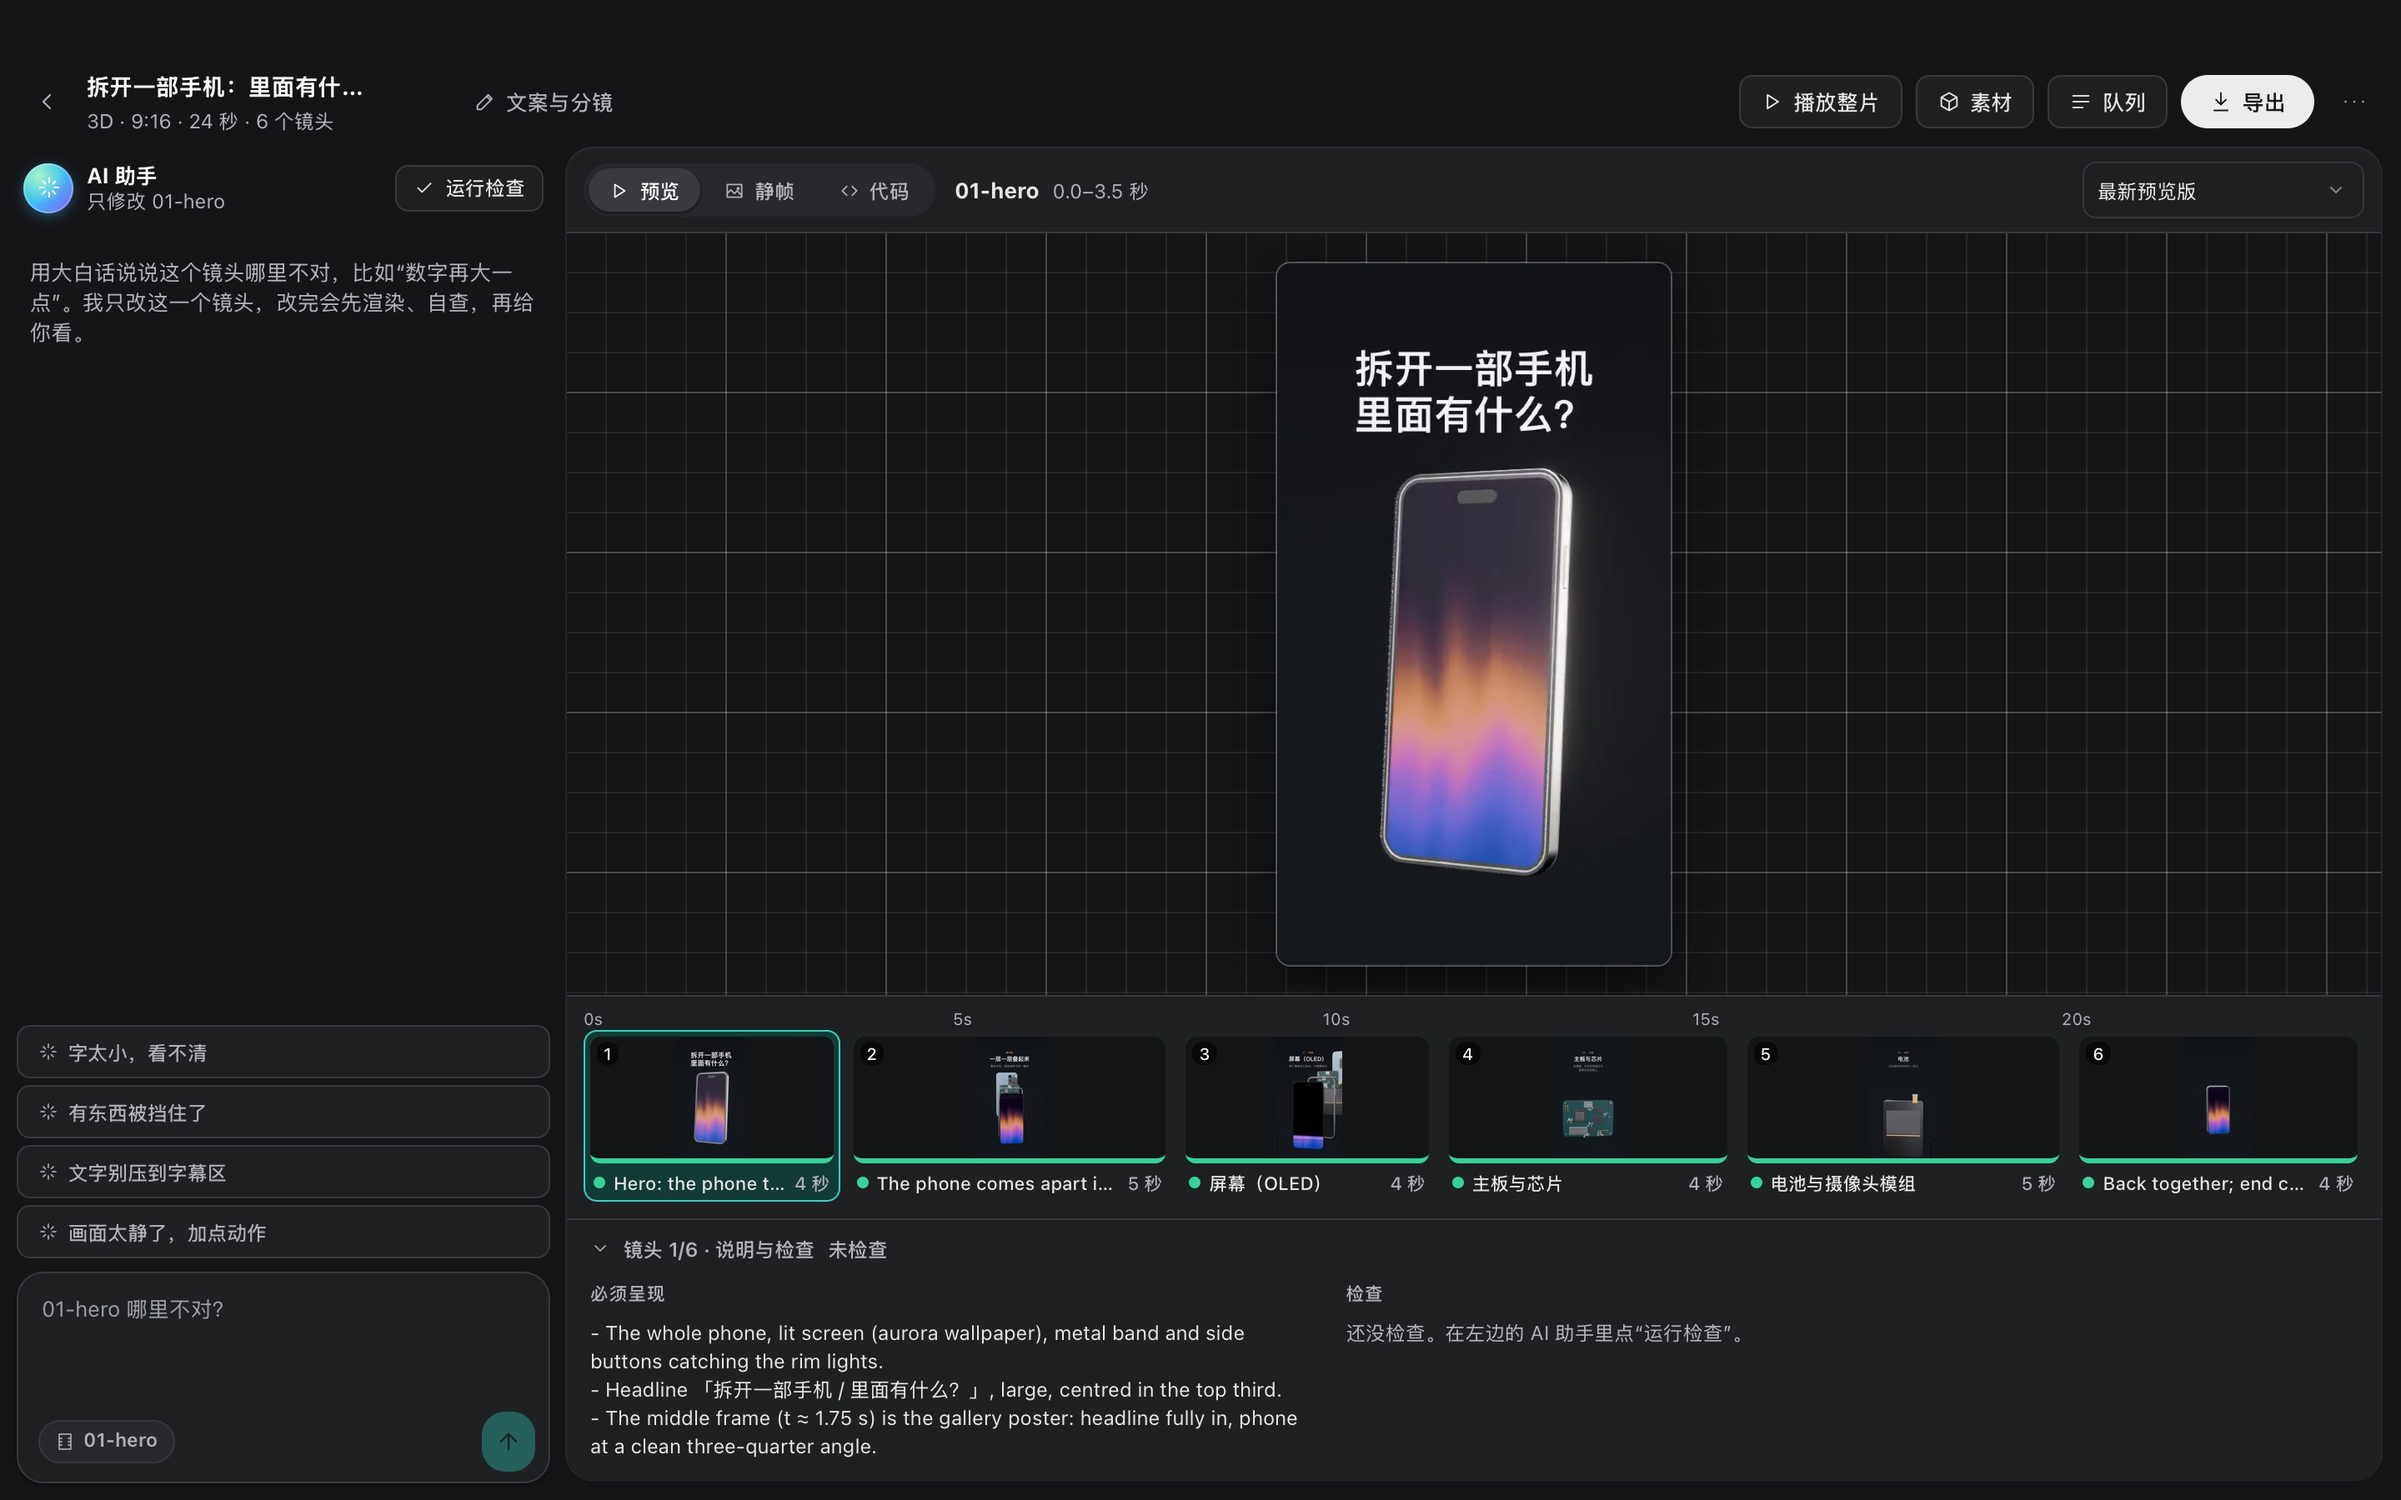
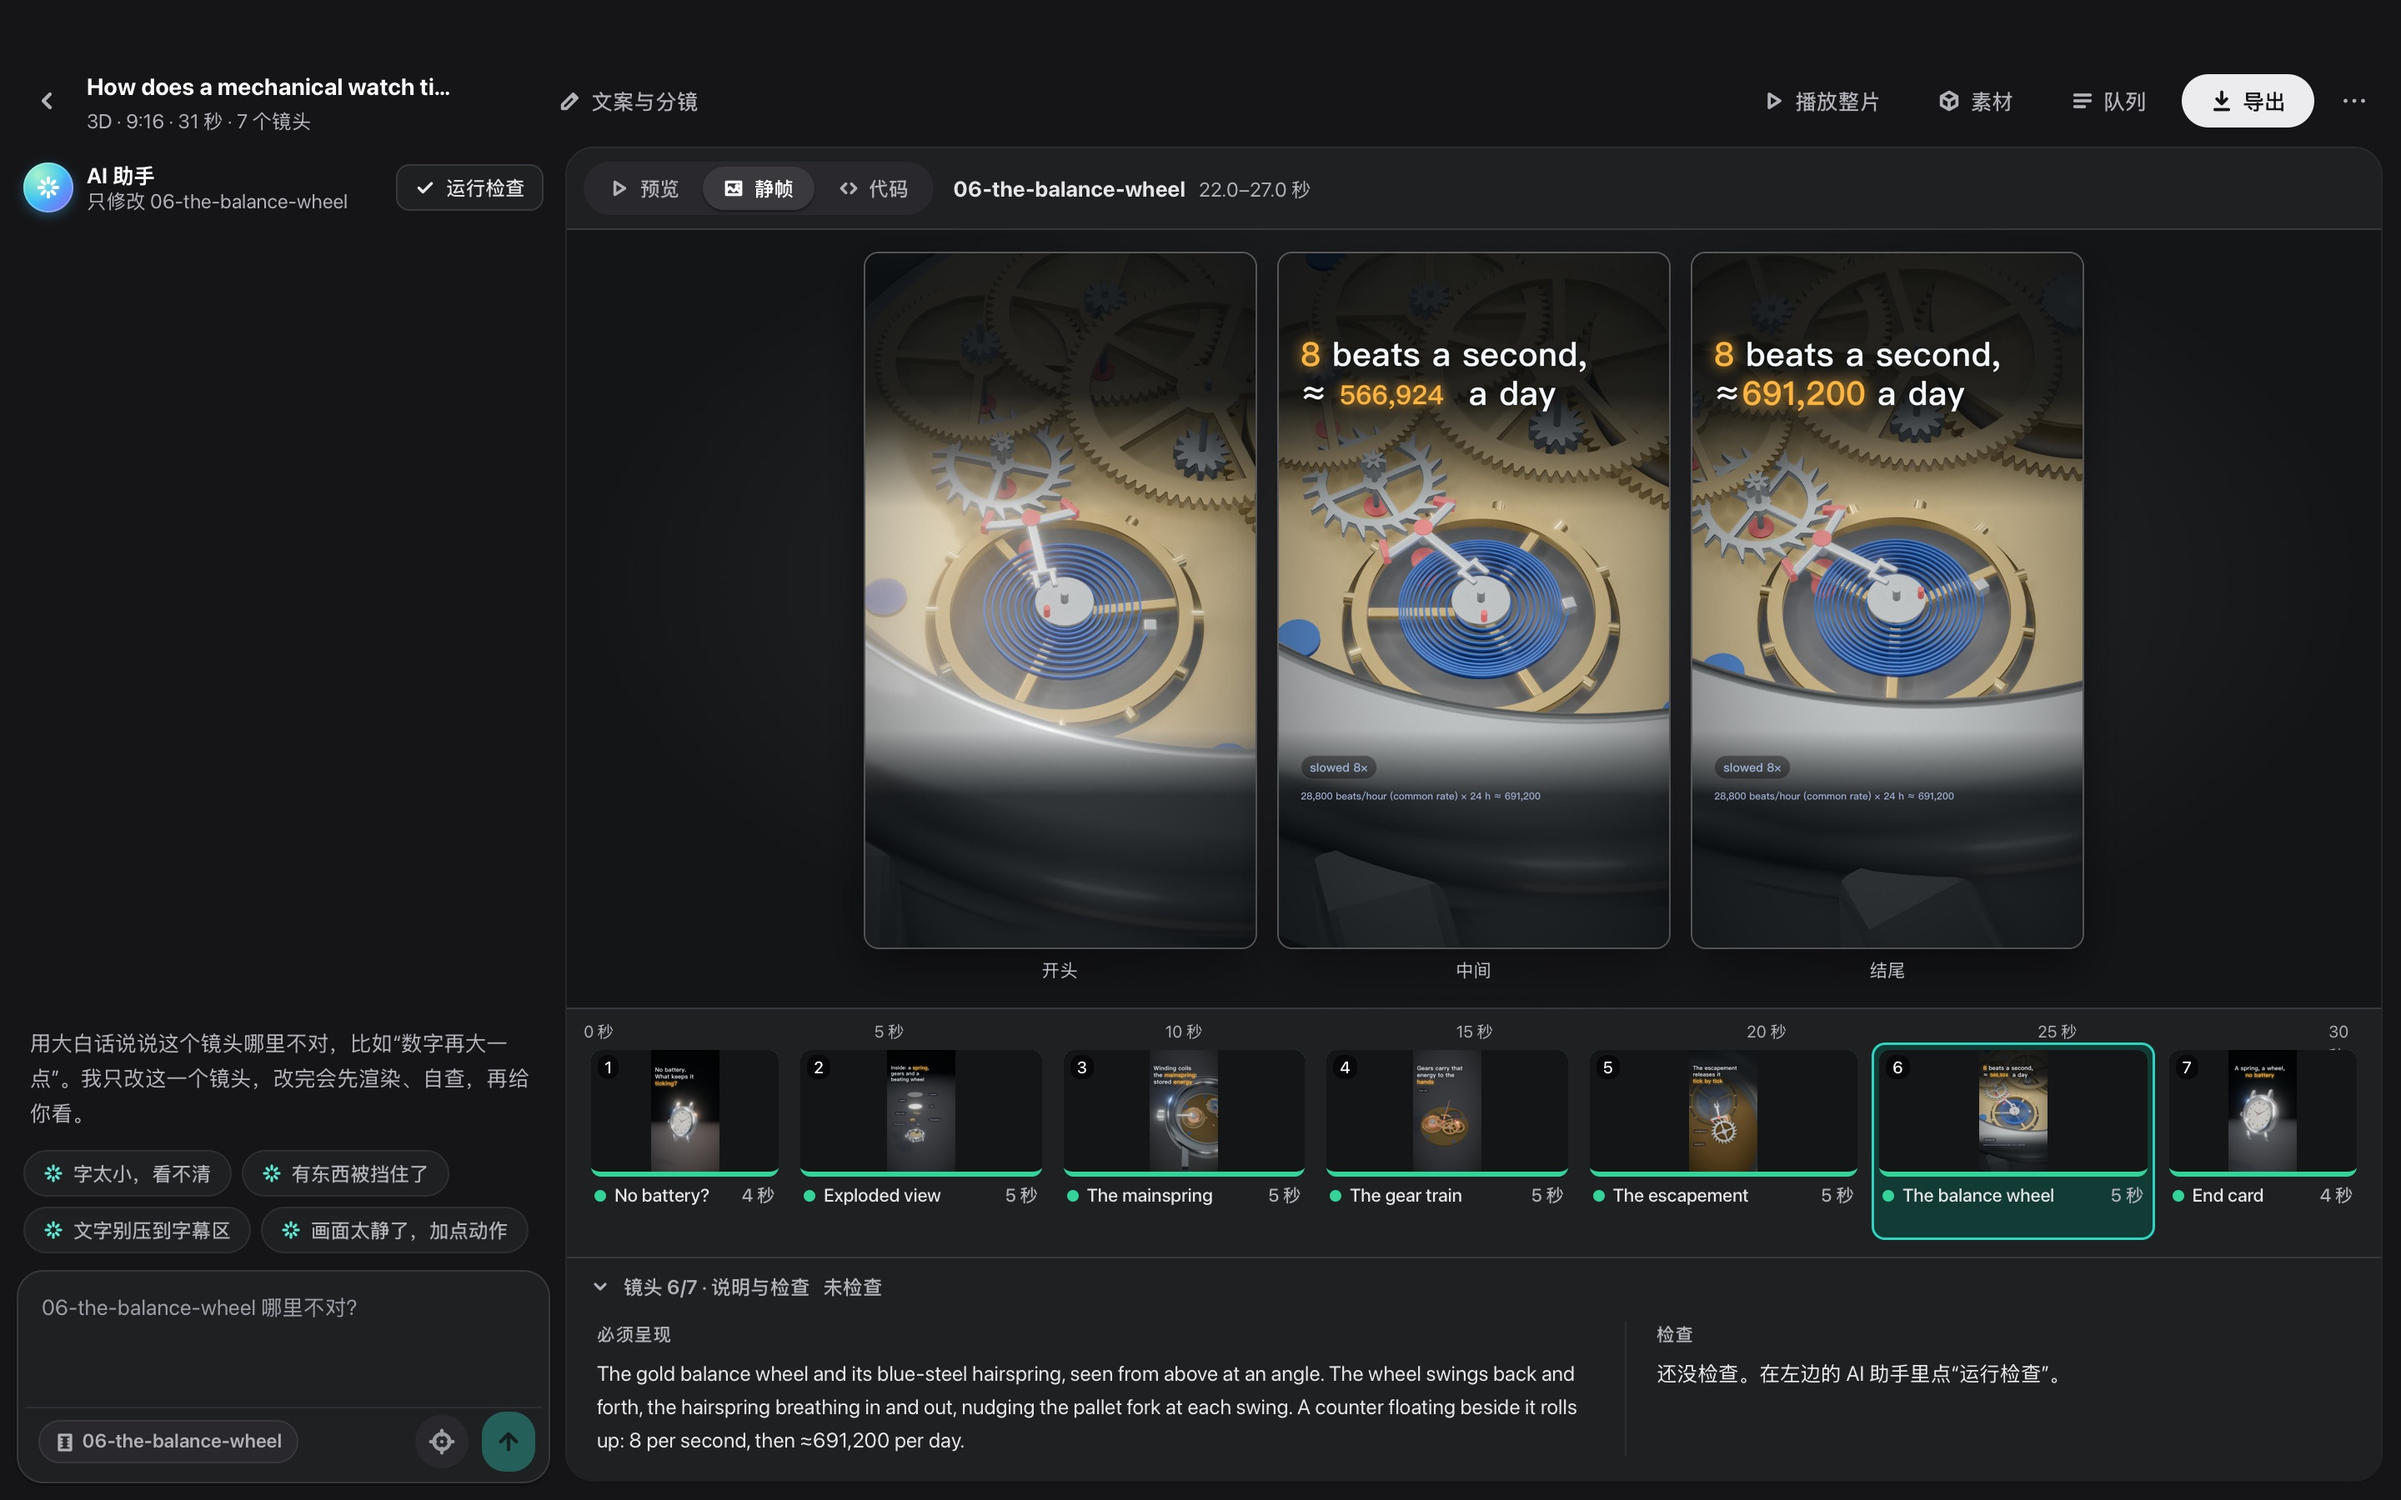
README hero: the WebGL watch in the studio; agent drops captions.html
The hero screenshots showed the phone teardown, an example that went with
Blender. They now show the watch's balance-wheel shot as stills, taken
from the real UI (English and Chinese). The agent no longer lists
captions.html, a Blender-era file, among the files a shot may write.

diff --git a/agent/src/main.ts b/agent/src/main.ts
@@ -123,7 +123,7 @@ async function shotTask(kind: 'fix' | 'check') {
   const current = shot.final.stills ?? (await renderStills(project.root, shot.id)).stills
   const before = keepStills(current, record, 'before')
 
-  const ctx = context(project.root, reviewOnly ? [] : [`shots/${shot.id}/`, 'world/', 'captions.html'])
+  const ctx = context(project.root, reviewOnly ? [] : [`shots/${shot.id}/`, 'world/'])
   const ask = kind === 'fix'
     ? `The person says about shot ${shot.id}: "${values.request}"${element ? `\n${elementBrief(element)}` : ''}\n\nFix it, then check the shot.`
     : reviewOnly
@@ -141,7 +141,7 @@ async function shotTask(kind: 'fix' | 'check') {
   const afterFiles = ctx.renders.get(shot.id) ?? (ctx.touched.size ? (await renderStills(project.root, shot.id)).stills : current)
   const after = keepStills(afterFiles, record, 'after')
   const touched = [...ctx.touched].sort()
-  const worldTouched = touched.some(f => f.startsWith('world/') || f === 'captions.html')
+  const worldTouched = touched.some(f => f.startsWith('world/'))
   const result = {
     at: new Date().toISOString(),
     task: kind,
@@ -304,7 +304,7 @@ async function buildTask() {
 // One visual system for the whole film; returns the project as it now is
 async function buildWorld(project: ProjectStatus, b: Build) {
   emit({ type: 'phase', phase: 'world' })
-  const ctx = context(project.root, ['world/', 'captions.html'])
+  const ctx = context(project.root, ['world/'])
   await runAgent('code', {
     effort: 'high',
     system: buildWorldSystem(project.track, !!project.voiced) + remembered(project.track, true) + replyLanguage(values.lang),

diff --git a/app/src/model.ts b/app/src/model.ts
@@ -153,7 +153,7 @@ function fileWords(file: string): string {
 }
 
 // An agent's activity log line, in words: tool lines ("read_file
-// shots/05-x/shot.py", "Write /abs/path") become a sentence; anything
+// shots/05-x/shot.js", "Write /abs/path") become a sentence; anything
 // else (the agent's own text) is shown as it is
 export function activityLine(line: string): string {
   const m = line.match(/^(\w+)\s*(.*)$/)

diff --git a/README.ru.md b/README.ru.md
@@ -7,7 +7,7 @@
 Идея превращается в текст, раскадровку и фильм из кадров. У каждого кадра свой цикл: ИИ пишет его, Shotloop рендерит, вы смотрите, ИИ исправляет. Правка перерендеривает только этот кадр, а не весь фильм.</p>
 
 <p align="center">
-  <img src="docs/screenshots/hero.jpg" alt="Студия Shotloop: 3D-разборка телефона, кадр с разнесённым видом как начальный, средний и конечный стоп-кадры, внизу лента кадров, слева ИИ-ассистент" width="100%" />
+  <img src="docs/screenshots/hero.jpg" alt="Студия Shotloop: механические часы в 3D, кадр с балансом как начальный, средний и конечный стоп-кадры, внизу лента кадров, слева ИИ-ассистент" width="100%" />
 </p>
 
 <p align="center">

diff --git a/README.ja.md b/README.ja.md
@@ -7,7 +7,7 @@
 アイデアがコピーになり、絵コンテになり、ショットを並べた動画になります。ショットにはそれぞれのループがあります。AI が書き、Shotloop がレンダリングし、あなたが確認し、AI が直す。修正するとそのショットだけを再レンダリングし、動画全体はやり直しません。</p>
 
 <p align="center">
-  <img src="docs/screenshots/hero.jpg" alt="Shotloop のエディタ：3D のスマホ分解。分解図ショットの開始・中間・終了の静止画、その下にフィルムストリップ、左に AI アシスタント" width="100%" />
+  <img src="docs/screenshots/hero.jpg" alt="Shotloop のエディタ：3D の機械式時計。テンプのショットの開始・中間・終了の静止画、その下にフィルムストリップ、左に AI アシスタント" width="100%" />
 </p>
 
 <p align="center">

diff --git a/README.it.md b/README.it.md
@@ -7,7 +7,7 @@
 Un’idea diventa testi, uno storyboard e un video fatto di inquadrature. Ogni inquadratura ha il suo ciclo: l’IA la scrive, Shotloop la renderizza, tu la controlli e l’IA la corregge. Una correzione renderizza di nuovo solo quell’inquadratura, non l’intero video.</p>
 
 <p align="center">
-  <img src="docs/screenshots/hero.jpg" alt="Lo Studio di Shotloop: lo smontaggio 3D di un telefono, la sua inquadratura in esploso come fotogrammi di inizio, metà e fine, la striscia delle inquadrature sotto e l’assistente IA a sinistra" width="100%" />
+  <img src="docs/screenshots/hero.jpg" alt="Lo Studio di Shotloop: un orologio meccanico in 3D, la sua inquadratura sul bilanciere come fotogrammi di inizio, metà e fine, la striscia delle inquadrature sotto e l’assistente IA a sinistra" width="100%" />
 </p>
 
 <p align="center">

diff --git a/README.ko.md b/README.ko.md
@@ -7,7 +7,7 @@
 아이디어 하나가 문안, 스토리보드, 그리고 여러 샷으로 이뤄진 영상이 됩니다. 샷마다 자체 루프가 있습니다. AI가 작성하고, Shotloop이 렌더링하고, 사용자가 검토하면 AI가 고칩니다. 수정하면 영상 전체가 아니라 그 샷만 다시 렌더링합니다.</p>
 
 <p align="center">
-  <img src="docs/screenshots/hero.jpg" alt="Shotloop 편집기: 3D 스마트폰 분해 프로젝트. 분해도 샷의 시작·중간·끝 정지 화면, 아래쪽 필름 스트립, 왼쪽 AI 어시스턴트" width="100%" />
+  <img src="docs/screenshots/hero.jpg" alt="Shotloop 편집기: 3D 기계식 시계 프로젝트. 밸런스 휠 샷의 시작·중간·끝 정지 화면, 아래쪽 필름 스트립, 왼쪽 AI 어시스턴트" width="100%" />
 </p>
 
 <p align="center">

diff --git a/README.vi.md b/README.vi.md
@@ -7,7 +7,7 @@
 Một ý tưởng trở thành lời văn, phân cảnh và một video gồm nhiều cảnh. Mỗi cảnh có vòng lặp riêng: AI viết, Shotloop render, bạn xem lại và AI sửa. Sửa một cảnh chỉ render lại cảnh đó, không phải cả video.</p>
 
 <p align="center">
-  <img src="docs/screenshots/hero.jpg" alt="Trình chỉnh sửa Shotloop: dự án 3D tháo rời điện thoại, khung hình đầu, giữa và cuối của cảnh nổ tách lớp, dải phim bên dưới và Trợ lý AI bên trái" width="100%" />
+  <img src="docs/screenshots/hero.jpg" alt="Trình chỉnh sửa Shotloop: dự án 3D đồng hồ cơ, khung hình đầu, giữa và cuối của cảnh bánh lắc, dải phim bên dưới và Trợ lý AI bên trái" width="100%" />
 </p>
 
 <p align="center">

diff --git a/README.es.md b/README.es.md
@@ -7,7 +7,7 @@
 Una idea se convierte en texto, guion gráfico y una película hecha de planos. Cada plano tiene su propio ciclo: la IA lo escribe, Shotloop lo renderiza, tú lo revisas y la IA lo corrige. Una corrección vuelve a renderizar solo ese plano, no la película entera.</p>
 
 <p align="center">
-  <img src="docs/screenshots/hero.jpg" alt="Editor de Shotloop: el desmontaje de un teléfono en 3D, su plano de vista explosionada en fotogramas de inicio, mitad y final, la tira de planos debajo y el asistente de IA a la izquierda" width="100%" />
+  <img src="docs/screenshots/hero.jpg" alt="Editor de Shotloop: un reloj mecánico en 3D, su plano del volante en fotogramas de inicio, mitad y final, la tira de planos debajo y el asistente de IA a la izquierda" width="100%" />
 </p>
 
 <p align="center">

diff --git a/README.fr.md b/README.fr.md
@@ -7,7 +7,7 @@
 Une idée devient un texte, un storyboard et un film composé de plans. Chaque plan a sa propre boucle : l’IA l’écrit, Shotloop en fait le rendu, vous le relisez et l’IA le corrige. Une correction ne refait le rendu que de ce plan, pas du film entier.</p>
 
 <p align="center">
-  <img src="docs/screenshots/hero.jpg" alt="Le Studio de Shotloop : un démontage de téléphone en 3D, son plan en vue éclatée en images de début, de milieu et de fin, la pellicule en dessous et l’assistant IA à gauche" width="100%" />
+  <img src="docs/screenshots/hero.jpg" alt="Le Studio de Shotloop : une montre mécanique en 3D, son plan sur le balancier en images de début, de milieu et de fin, la pellicule en dessous et l’assistant IA à gauche" width="100%" />
 </p>
 
 <p align="center">

diff --git a/README.tr.md b/README.tr.md
@@ -7,7 +7,7 @@
 Bir fikir metne, senaryo taslağına ve çekimlerden oluşan bir filme dönüşür. Her çekimin kendi döngüsü vardır: yapay zekâ yazar, Shotloop işler, siz incelersiniz, yapay zekâ düzeltir. Bir düzeltme tüm filmi değil, yalnızca o çekimi yeniden işler.</p>
 
 <p align="center">
-  <img src="docs/screenshots/hero.jpg" alt="Shotloop Studio: 3D bir telefonun parçalarına ayrılması, patlatılmış görünüm çekiminin başlangıç, orta ve bitiş kareleri, altta film şeridi ve solda yapay zekâ asistanı" width="100%" />
+  <img src="docs/screenshots/hero.jpg" alt="Shotloop Studio: 3D mekanik bir saat, balans çarkı çekiminin başlangıç, orta ve bitiş kareleri, altta film şeridi ve solda yapay zekâ asistanı" width="100%" />
 </p>
 
 <p align="center">

diff --git a/README.pt-BR.md b/README.pt-BR.md
@@ -7,7 +7,7 @@
 Uma ideia vira texto, storyboard e um filme feito de cenas. Cada cena tem o seu próprio ciclo: a IA escreve, o Shotloop renderiza, você revisa e a IA corrige. Uma correção renderiza de novo só aquela cena, não o filme inteiro.</p>
 
 <p align="center">
-  <img src="docs/screenshots/hero.jpg" alt="Editor do Shotloop: a desmontagem de um celular em 3D, a cena de vista explodida em quadros de início, meio e fim, a faixa de cenas embaixo e o assistente de IA à esquerda" width="100%" />
+  <img src="docs/screenshots/hero.jpg" alt="Editor do Shotloop: um relógio mecânico em 3D, a cena do balanço em quadros de início, meio e fim, a faixa de cenas embaixo e o assistente de IA à esquerda" width="100%" />
 </p>
 
 <p align="center">

diff --git a/README.de.md b/README.de.md
@@ -7,7 +7,7 @@
 Aus einer Idee werden Text, Storyboard und ein Film aus Shots. Jeder Shot hat seine eigene Schleife: Die KI schreibt ihn, Shotloop rendert ihn, du prüfst ihn, die KI korrigiert ihn. Eine Korrektur rendert nur diesen Shot neu, nicht den ganzen Film.</p>
 
 <p align="center">
-  <img src="docs/screenshots/hero.jpg" alt="Shotloop-Studio: ein 3D-Smartphone-Teardown, der Explosionsansicht-Shot als Start-, Mittel- und Endbild, darunter der Filmstreifen, links der KI-Assistent" width="100%" />
+  <img src="docs/screenshots/hero.jpg" alt="Shotloop-Studio: eine mechanische Uhr in 3D, der Unruh-Shot als Start-, Mittel- und Endbild, darunter der Filmstreifen, links der KI-Assistent" width="100%" />
 </p>
 
 <p align="center">
